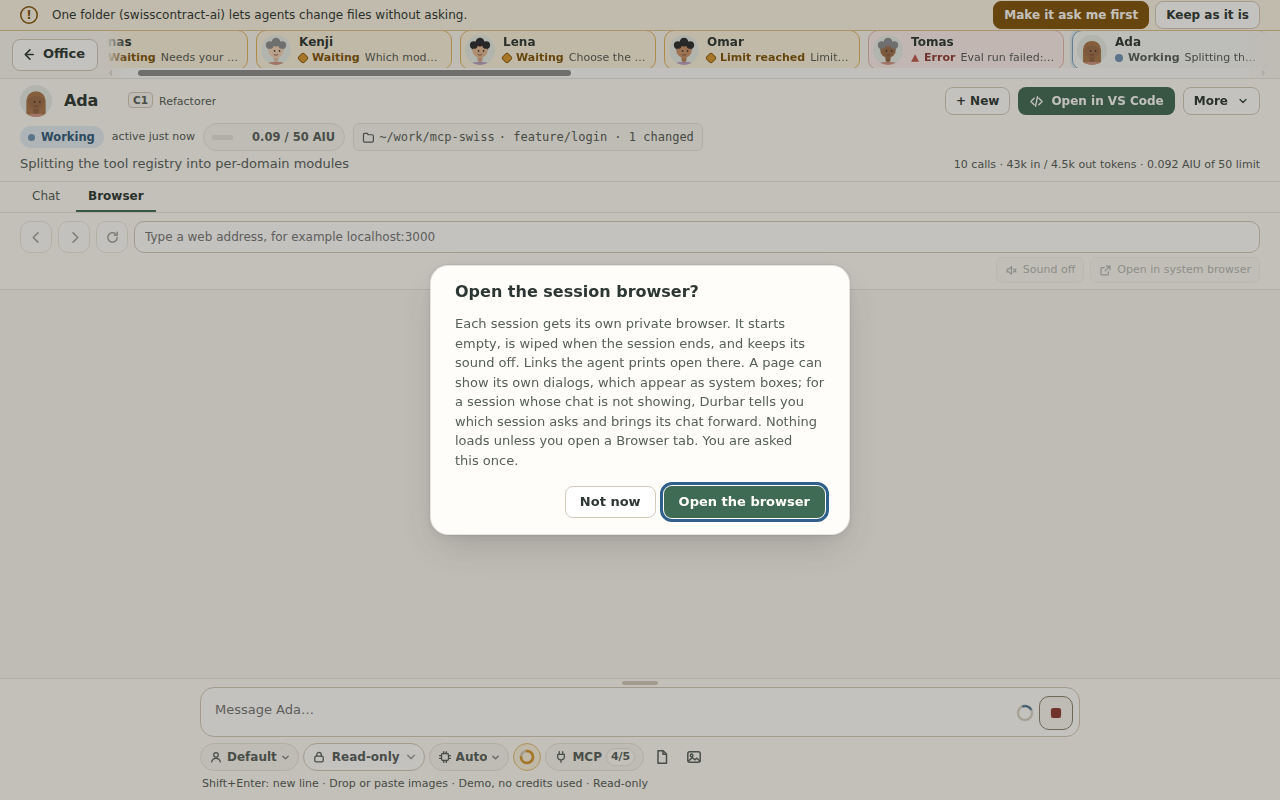
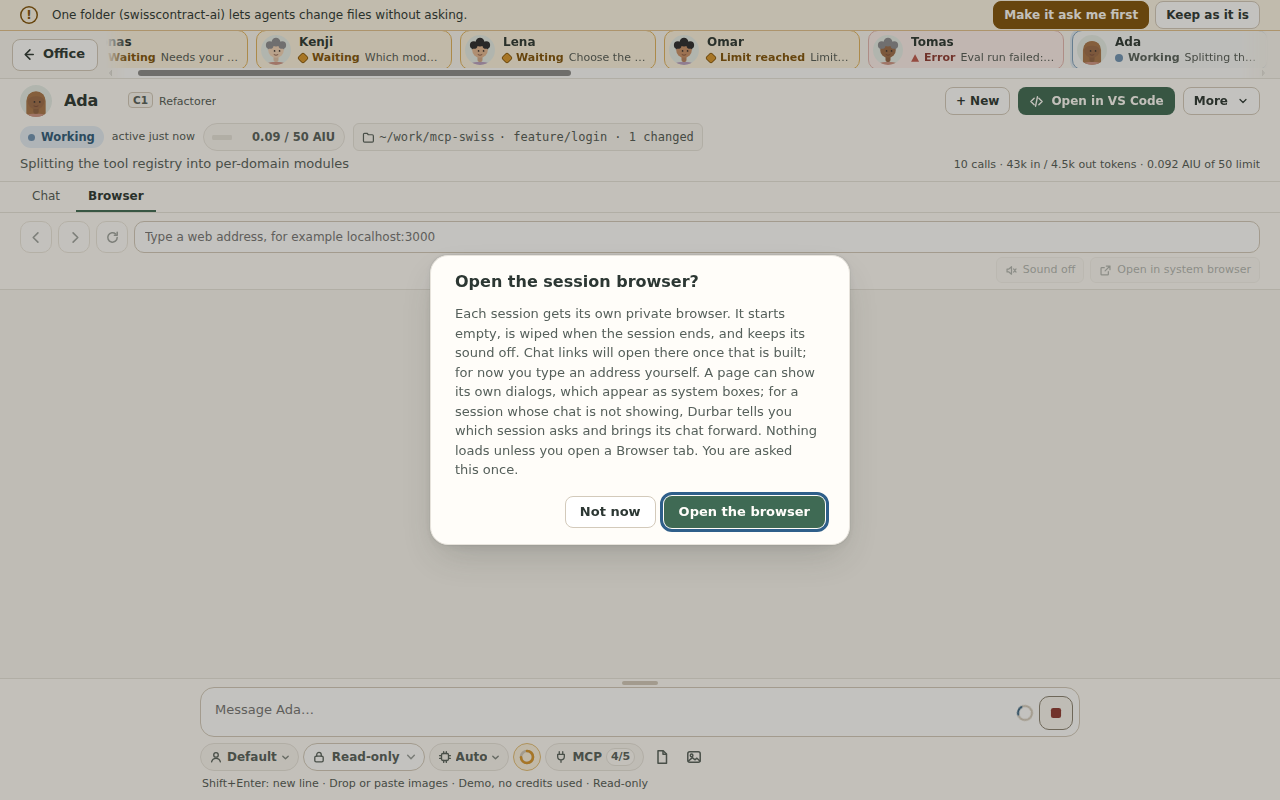
Session browser: the consent note no longer promises chat links before T017; trust-boundary comment on browser:consentAccept (review on #713)
Claude-Session: https://claude.ai/code/session_011q7Qoo6kXkNkw9EMzzHxXD

Changed region(s): [[0.3438, 0.3125, 0.6562, 0.5938], [0.3125, 0.5938, 0.6875, 0.6875]]

diff --git a/scripts/test-browserpane.ts b/scripts/test-browserpane.ts
@@ -79,6 +79,7 @@ for (const needle of ['.dlg-ov', '[role="menu"]', '.mode-menu', '.more-menu', '#
 assert.ok(/overlay\(on\)/.test(src('src/renderer/browserpane.js')) && /bridge\.browserSnapshot\(id\)/.test(src('src/renderer/browserpane.js')) && /bridge\.browserOverlay\(id,true\)/.test(src('src/renderer/browserpane.js')), 'the pane takes a still picture, then hides the view');
 // FR-025d (Q2), FR-025e, FR-025d (Q3): consent, Leave and the hidden dialog, all through the shared askDialog and toast
 const pane2 = src('src/renderer/browserpane.js');
+assert.ok(/Chat links will open there once that is built; for now you type an address yourself\./.test(pane2) && !/Links the agent prints/.test(pane2), 'the note says only what is true now about chat links');
 assert.ok(/Nothing loads unless you open a Browser tab\./.test(pane2), 'the note says when the browser loads anything');
 assert.ok(/r\.needsConsent/.test(pane2) && /Not now/.test(pane2) && /Open the browser/.test(pane2) && /browserConsentAccept/.test(pane2), 'the consent: Not now / Open the browser, remembered through main');
 assert.ok(/title:'Leave this page\?'/.test(pane2) && /Leave, then click again\./.test(pane2) && /label:'Stay',value:null/.test(pane2) && /cls:'primary warn'/.test(pane2), 'the Leave box: Stay is the cancel (focused first), Leave is the warn choice');

diff --git a/src/renderer/browserpane.js b/src/renderer/browserpane.js
@@ -193,7 +193,7 @@
   async function askConsent(){
     if(!host.ask)return false;
     const r=await host.ask({title:'Open the session browser?',
-      body:'Each session gets its own private browser. It starts empty, is wiped when the session ends, and keeps its sound off. Links the agent prints open there. A page can show its own dialogs, which appear as system boxes; for a session whose chat is not showing, Durbar tells you which session asks and brings its chat forward. Nothing loads unless you open a Browser tab. You are asked this once.',
+      body:'Each session gets its own private browser. It starts empty, is wiped when the session ends, and keeps its sound off. Chat links will open there once that is built; for now you type an address yourself. A page can show its own dialogs, which appear as system boxes; for a session whose chat is not showing, Durbar tells you which session asks and brings its chat forward. Nothing loads unless you open a Browser tab. You are asked this once.',
       buttons:[{label:'Not now',value:null},{label:'Open the browser',value:'ok',cls:'primary'}]});
     if(!r||r.value!=='ok')return false;
     const a=await bridge.browserConsentAccept().catch(()=>null);

diff --git a/src/main/ipc/browser.ts b/src/main/ipc/browser.ts
@@ -68,6 +68,7 @@ export function register(deps: BrowserIpcDeps): BrowserController {
   ipcHandle('browser:overlay', (e, id: unknown, open: unknown) => (fromApp(e) ? ctl.overlay(id, open) : { ok: false }));
   ipcHandle('browser:mute', (e, id: unknown, muted: unknown) => (fromApp(e) ? ctl.mute(id, muted) : REFUSED));
   ipcHandle('browser:openSystem', (e, id: unknown) => (fromApp(e) ? ctl.openSystem(id) : { ok: false }));
+  // records the consent with no proof the dialog was shown (any code in the app window can call it): inside the window's trust boundary, like the other settings channels
   ipcHandle('browser:consentAccept', (e) => {
     if (!fromApp(e)) return { ok: false };
     deps.getSettingsStore()?.acceptBrowserNote();
